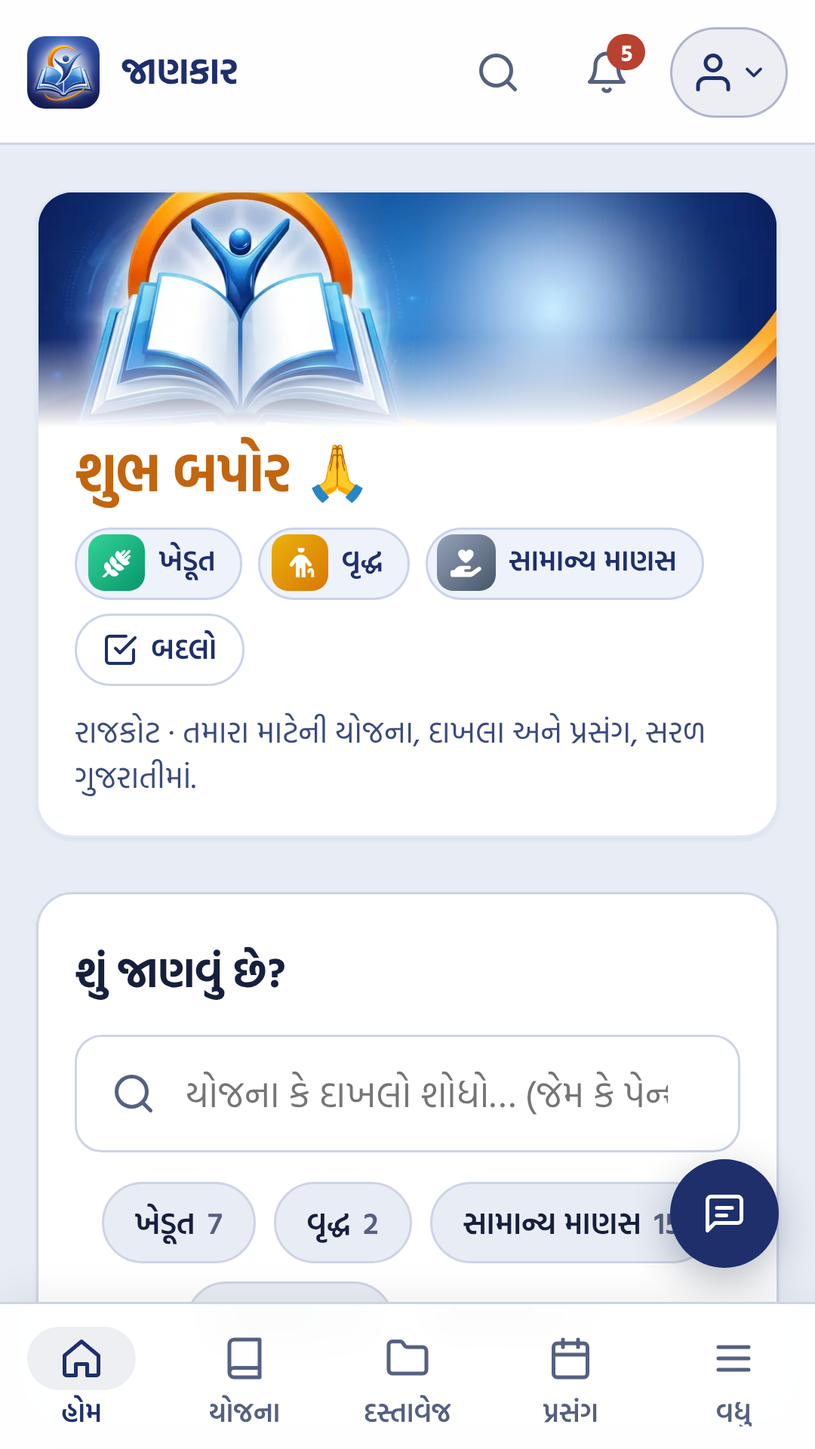
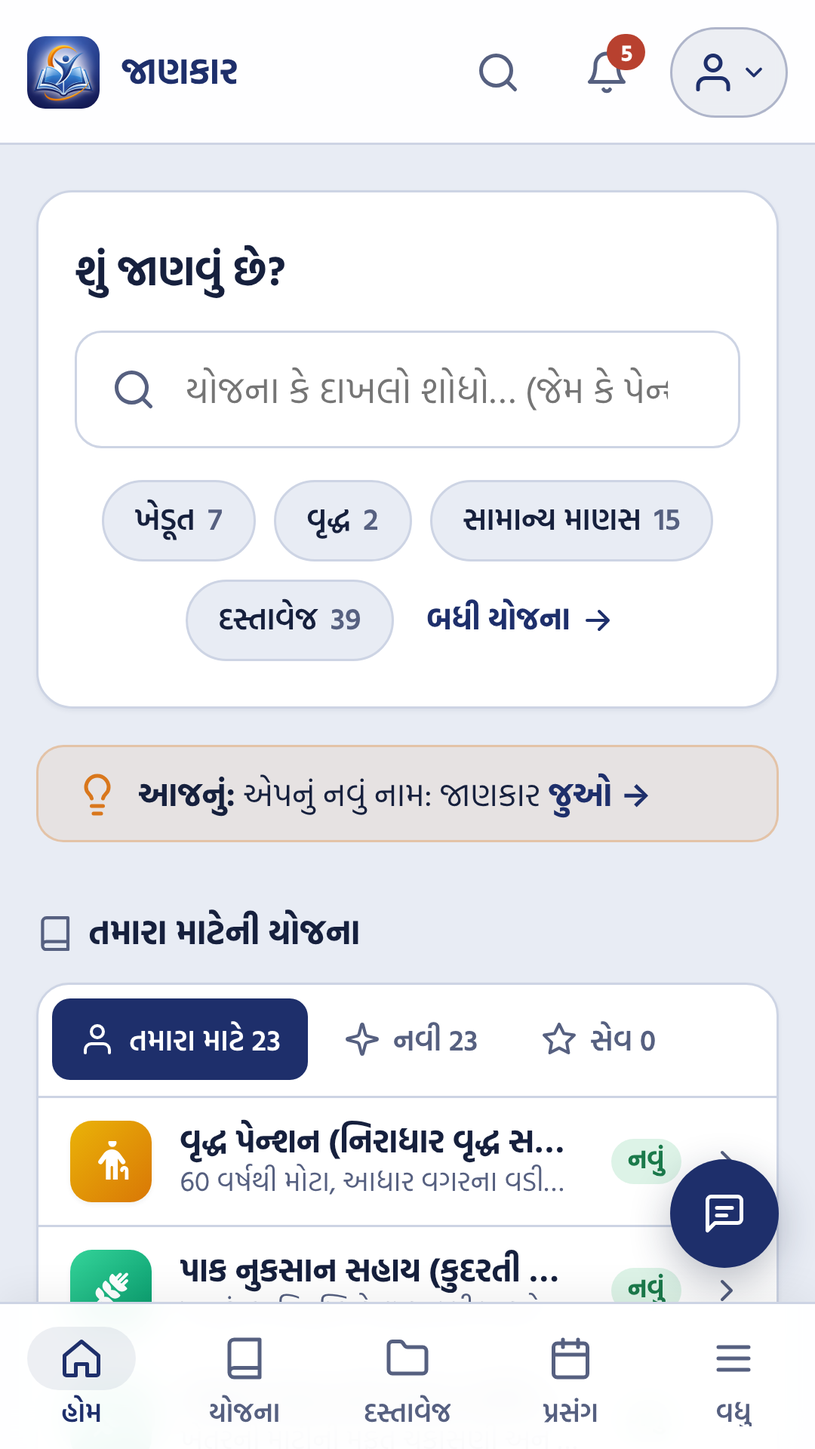
Remove home welcome card and extra notices; About page keeps only Play Store essentials (v0.7.1)
Claude-Session: https://claude.ai/code/session_01DUfmrE6hES2hiiSsinEE3a

Changed region(s): [[0.0306, 0.125, 0.9778, 0.5938], [0.0306, 0.625, 0.8556, 0.9062], [0.8861, 0.75, 0.9167, 0.7812]]

diff --git a/js/app.js b/js/app.js
@@ -163,11 +163,6 @@ function itemList(items, empty) {
   return `<ul class="list">${items.map((s) => itemCard(s)).join('')}</ul>`;
 }
 
-function draftNote(items) {
-  if (!items.some((s) => !s.verified)) return '';
-  return `<p class="note note-warn mt">${icon('alert')}<span>આ માહિતીની સત્તાવાર સાઇટ પરથી ચકાસણી હજુ બાકી છે. અરજી હંમેશાં સત્તાવાર સાઇટ પર જ કરો.</span></p>`;
-}
-
 // પેજનો ફૂટર હવે ખોખામાં એક જ વાર (KruPa #174: એક પાતળી લીટી). જૂની views હજુ footer() બોલાવે છે.
 function footer() {
   return '';
@@ -176,7 +171,6 @@ function footer() {
 function renderFooter() {
   const links = [
     ['#/about', 'એપ વિશે'],
-    ['#/guide', 'કેવી રીતે વાપરવી'],
     ['privacy.html', 'પ્રાઇવસી'],
     ['terms.html', 'નિયમો'],
     ['#/contact', 'સંપર્ક'],
@@ -363,13 +357,6 @@ function homeResults() {
     ${itemList(hits, 'કંઈ મળ્યું નહીં. બીજો શબ્દ લખી જુઓ, જેમ કે "પેન્શન" કે "aavak".')}`;
 }
 
-function greeting() {
-  const h = new Date().getHours();
-  if (h < 12) return 'શુભ સવાર';
-  if (h < 17) return 'શુભ બપોર';
-  return 'શુભ સાંજ';
-}
-
 // એક હાર: tile + નામ + નાની લીટી + › (KruPa ના હોમની યાદી જેવું)
 function rowItem(s) {
   let tag = '';
@@ -463,20 +450,8 @@ function viewHome() {
   }
   const latest = [...state.updates].sort((a, b) => (a.date < b.date ? 1 : a.date > b.date ? -1 : 0))[0];
   const count = (c) => visible(state.schemes).filter((s) => s.categories.includes(c)).length;
-  const place = [p.age ? `${esc(p.age)} વર્ષ` : '', p.district ? esc(p.district) : ''].filter(Boolean).join(' · ');
   return `
     ${state.installPrompt ? `<button class="note note-info btn-block" style="border:0;cursor:pointer;text-align:left;margin-bottom:1rem" data-action="install">${icon('plus')}<span><strong>એપ ફોનમાં ઇન્સ્ટોલ કરો</strong>: હોમ સ્ક્રીન પરથી સીધી ખૂલશે.</span></button>` : ''}
-    <section class="wcard">
-      <div class="wcard-text">
-        <h1><span class="g">${greeting()}</span> 🙏</h1>
-        <div class="wbadges">
-          ${p.categories.map((c) => `<a class="wb" href="#/all?c=${c}">${catTile(c, 'sm')}${esc(CATEGORY_BY_ID[c].label)}</a>`).join('')}
-          <a class="wb edit" href="#/profile">${icon('fill', 'ic-sm')}બદલો</a>
-        </div>
-        <p class="wcard-line">${place ? `${place} · તમારા માટેની યોજના, દાખલા અને પ્રસંગ, સરળ ગુજરાતીમાં.` : `<a href="#/profile">ઉંમર અને જિલ્લો ઉમેરો →</a> એટલે વધુ સાચી યોજના દેખાશે.`}</p>
-      </div>
-      <div class="wcard-art" aria-hidden="true"></div>
-    </section>
     ${reminderNote()}
     <section class="scard">
       <div class="scard-in">
@@ -500,8 +475,7 @@ function viewHome() {
       ${homeMineBox(p)}
       ${homeEventsBox(p)}
       ${homeDocsBox()}
-    </div>
-    ${draftNote(visible(state.schemes).filter((s) => matches(s, p)))}`;
+    </div>`;
 }
 
 // ---------- યાદી: યોજના અને દસ્તાવેજ ----------
@@ -569,8 +543,7 @@ function listPage(scope, title, sub, ic, placeholder, chips, label) {
       ${filterSelect(scope, label, chips, counts)}
       <span class="fcount" id="${scope}-count">${countLabel(scope)}</span>
     </div>
-    <div id="${scope}-list">${listBody(scope)}</div>
-    ${draftNote(scope === 'docs' ? state.docs : state.schemes)}`;
+    <div id="${scope}-list">${listBody(scope)}</div>`;
 }
 
 function viewAll(params) {
@@ -643,14 +616,11 @@ function viewEvent(id) {
       <div><h1>${esc(e.title)}</h1><p class="lead">${esc(e.summary)}</p></div>
     </div>
     <p class="progress mt" id="event-progress">${eventProgress(e, ready)}</p>
-    <div class="parts" style="margin-top:1rem">
+    <div class="parts one" style="margin-top:1rem">
       <div class="parts-main">
         ${docs.length ? `<section class="part"><h2><span class="sq">${icon('forms')}</span>કરવાનાં કામ / દસ્તાવેજ</h2><ul class="ev-list">${docs.map(row).join('')}</ul></section>` : ''}
         ${helps.length ? `<section class="part"><h2><span class="sq">${icon('gift')}</span>મળી શકે એવી સહાય</h2><ul class="ev-list">${helps.map(row).join('')}</ul></section>` : ''}
       </div>
-      <aside class="parts-side">
-        <div class="note note-info">${icon('info')}<span>કામ પર ટેપ કરો એટલે પુરાવા અને પગલાં દેખાશે. થઈ જાય એટલે ☐ પર ✓ કરો — આ ફોનમાં યાદ રહેશે.</span></div>
-      </aside>
     </div>
     ${footer()}`;
 }
@@ -748,7 +718,6 @@ function viewItem(id) {
       <button class="btn" data-action="save" data-id="${esc(s.id)}" aria-pressed="${saved}">${icon('star', saved ? 'ic filled' : 'ic')}<span>${saved ? 'સેવ થયેલ' : 'સેવ કરો'}</span></button>
       <a class="btn btn-ok" href="${wa}" target="_blank" rel="noopener">${icon('share')}વોટ્સએપ પર મોકલો</a>
     </div>
-    ${!s.verified ? `<p class="note note-warn mt">${icon('alert')}<span>આ માહિતીની ચકાસણી હજુ બાકી છે${/⚠/.test(JSON.stringify(s)) ? ' — ⚠ વાળી વાત ખાસ ચકાસો' : ''}. અરજી પહેલાં સત્તાવાર સાઇટ કે કચેરીમાં ખાતરી કરો.</span></p>` : ''}
     <div class="facts-main">
       <div class="fact">${'<span class="sq">' + icon('users') + '</span>'}<div><div class="k">${k.who}</div><div class="v">${s.eligibility.map(esc).join('<br>')}</div></div></div>
       <div class="fact good"><span class="sq">${icon('gift')}</span><div><div class="k">${k.benefit}</div><div class="v">${esc(s.benefit)}</div></div></div>
@@ -763,22 +732,14 @@ function viewItem(id) {
         ${s.after && s.after.length ? part('અરજી પછી', 'hourglass', dots(s.after)) : ''}
       </div>
       <aside class="parts-side">
-        <div class="card side-box">
-          <h3>${icon('help')}ફોર્મ ભરવામાં મદદ</h3>
-          <p class="small muted">નજીકના <strong>KruPa Digital Hub</strong> ઓપરેટર કે CSC સેન્ટરની મદદ લો.</p>
-        </div>
         ${reportLink(s) ? `<div class="card side-box">
           <h3>${icon('alert')}માહિતીમાં ભૂલ છે?</h3>
           <p class="small muted">ફી, તારીખ કે નિયમ બદલાયા હોય તો જણાવો, અમે ચકાસીને સુધારીશું.</p>
           <a class="btn" href="${reportLink(s)}" target="_blank" rel="noopener">${icon('message')}ભૂલ જણાવો</a>
         </div>` : ''}
         <div class="card side-box">
-          <h3>${icon('shield')}ધ્યાન રાખો</h3>
-          <p class="small muted">અમે ક્યારેય પૈસા, OTP કે આધાર નંબર માંગતા નથી. અરજી હંમેશાં સત્તાવાર સાઇટ પર જ કરો.</p>
-        </div>
-        <div class="card side-box">
           <h3>${icon('book')}સ્રોત</h3>
-          <div class="sources">${sources}<span>છેલ્લે અપડેટ: ${esc(formatDate(s.updatedOn))}</span></div>
+          <div class="sources">${sources}<span>છેલ્લે અપડેટ: ${esc(formatDate(s.updatedOn))}</span>${s.verified ? '' : '<span>ચકાસણી બાકી: અરજી પહેલાં સત્તાવાર સાઇટ પર ખાતરી કરો.</span>'}</div>
         </div>
       </aside>
     </div>
@@ -836,7 +797,6 @@ function viewHelp() {
         )
         .join('') || '<div class="empty">નંબર લોડ ન થયા.</div>'
     }</div>
-    <p class="note note-warn mt">${icon('shield')}<span>કોઈ સરકારી અધિકારી ફોન પર OTP, PIN કે પૈસા માંગતા નથી. ફ્રોડ થાય તો તરત 1930 પર ફોન કરો.</span></p>
     ${footer()}`;
 }
 
@@ -865,7 +825,6 @@ function viewProfile() {
         <label class="field">વ્યવસાય<select name="occupation"><option value="">— પસંદ કરો —</option>${opt(OCCUPATIONS, p.occupation)}</select></label>
         <label class="field">કુટુંબની વાર્ષિક આવક<select name="income"><option value="">— પસંદ કરો —</option>${opt(INCOME, p.income)}</select></label>
       </div>
-      <p class="note note-ok">${icon('lock')}<span>અમે આધાર નંબર, બેંક વિગત કે ફોન નંબર ક્યારેય નથી માંગતા.</span></p>
       <button class="btn btn-primary btn-block" type="submit">${icon('published')}સેવ કરો</button>
       ${state.profile ? `<button class="btn btn-ghost btn-block" type="button" data-action="reset">${icon('trash')}મારી બધી માહિતી ફોનમાંથી કાઢી નાખો</button>` : ''}
     </form>
@@ -876,22 +835,13 @@ function viewAbout() {
   return `
     ${pageHead(`${esc(APP.name)} વિશે`, '', 'info', '#/')}
     <div class="stack">
-      <div class="card"><p>ગામના દરેક માણસને તેના માટે કઈ યોજના, સહાય, દાખલા અને માહિતી છે તે સરળ ગુજરાતીમાં, બોલીને અને સામેથી જણાવતી એપ.</p></div>
+      <div class="card"><p>યોજના, સહાય અને દાખલાની માહિતી સરળ ગુજરાતીમાં આપતી એપ. પ્રકાશક: KruPa Digital Hub.</p></div>
       <div class="note note-warn">${icon('alert')}<div>
         <ul style="padding-left:1.1rem;margin:0">
-          <li>આ <strong>ખાનગી માહિતી એપ</strong> છે — કોઈ સરકારી વિભાગની સત્તાવાર એપ નથી.</li>
-          <li>દરેક કાર્ડ પર સત્તાવાર સ્રોતની લિંક છે. અરજી પહેલાં સત્તાવાર સાઇટ કે કચેરીમાં ખાતરી કરો.</li>
-          <li><strong>અમે ક્યારેય પૈસા, OTP કે આધાર નંબર માંગતા નથી.</strong> કોઈ આ એપના નામે માંગે તો તે ફ્રોડ છે — 1930 પર ફોન કરો.</li>
+          <li>આ <strong>ખાનગી માહિતી એપ</strong> છે. કોઈ સરકારી વિભાગની એપ નથી અને સરકાર સાથે જોડાયેલી નથી.</li>
+          <li>માહિતી સરકારી વેબસાઇટ અને સરકારી ઠરાવ પરથી લીધી છે. દરેક કાર્ડ પર "સ્રોત" માં મૂળ લિંક છે. અરજી સત્તાવાર સાઇટ પર જ કરો.</li>
         </ul></div></div>
-      <div class="card"><h2 class="section-title" style="margin-top:0">${icon('users')}KruPa Digital Hub</h2>
-        <p>${esc(APP.name)} એ KruPa Digital Hub ની એપ છે. યોજના ગાઈડ, દસ્તાવેજ ગાઈડ અને પ્રસંગની માહિતી KruPa Digital Hub ની ગાઈડ પરથી લીધી છે. ફોર્મ ભરવામાં મદદ માટે નજીકના KruPa ઓપરેટર કે CSC સેન્ટરનો સંપર્ક કરો.</p></div>
-      <div class="card"><h2 class="section-title" style="margin-top:0">${icon('lock')}તમારી માહિતી</h2>
-        <p>લોગિન નથી. પ્રોફાઇલ, સેવ કરેલું અને ✓ ચેકલિસ્ટ ફક્ત આ ફોનમાં રહે છે; અમારા સર્વર પર જતું નથી. <a href="privacy.html">પ્રાઇવસી પોલિસી</a></p></div>
-      <div class="card"><h2 class="section-title" style="margin-top:0">${icon('book')}માહિતી ક્યાંથી આવે છે</h2>
-        <p>દરેક કાર્ડ સરકારી વેબસાઇટ, સરકારી ઠરાવ અને KruPa Digital Hub ની ગાઈડ પરથી સરળ ગુજરાતીમાં લખાય છે. કાર્ડની નીચે "સ્રોત" માં મૂળ લિંક અને છેલ્લે અપડેટની તારીખ છે. સત્તાવાર સાઇટ પરથી ચકાસાય નહીં ત્યાં સુધી કાર્ડ પર "ચકાસણી બાકી" લખેલું રહે છે.</p>
-        <p class="mt muted">હાલમાં: ${state.schemes.length} યોજના, ${state.docs.length} દસ્તાવેજ, ${state.events.length} પ્રસંગ · ${allItems().filter((x) => x.verified).length} ચકાસેલાં</p></div>
       <div class="menu-list card">
-        <a href="#/guide">${icon('help')}એપ કેવી રીતે વાપરવી</a>
         <a href="#/contact">${icon('message')}સંપર્ક અને સૂચન</a>
         <a href="privacy.html">${icon('lock')}પ્રાઇવસી પોલિસી</a>
         <a href="terms.html">${icon('forms')}નિયમો અને શરતો</a>
@@ -922,52 +872,8 @@ function viewContact() {
     c.email && `<a class="help-row" href="mailto:${esc(c.email)}">${lineTile('message', 'blue')}<div><div class="num">ઈમેલ</div><div class="t">${esc(c.email)}</div></div>${icon('chev', 'ic chev')}</a>`,
   ].filter(Boolean);
   return `
-    ${pageHead('સંપર્ક અને સૂચન', 'ભૂલ દેખાય, નવી યોજના ખબર પડે કે કંઈ સમજાય નહીં તો જણાવો.', 'message', '#/')}
+    ${pageHead('સંપર્ક અને સૂચન', 'ભૂલ દેખાય કે સૂચન હોય તો જણાવો.', 'message', '#/')}
     ${rows.length ? `<div class="help-list">${rows.join('')}</div>` : `<div class="empty">સંપર્કની વિગત ટૂંક સમયમાં ઉમેરાશે.</div>`}
-    <div class="card mt">
-      <h2 class="h2">${icon('help')}ફોર્મ ભરવામાં મદદ</h2>
-      <p class="mt">આ એપ ફક્ત માહિતી આપે છે, અરજી નથી કરતી. ફોર્મ ભરવા માટે નજીકના <strong>KruPa Digital Hub</strong> ઓપરેટર, CSC સેન્ટર કે ગ્રામ પંચાયતના VCE ની મદદ લો.</p>
-    </div>
-    <p class="note note-warn mt">${icon('shield')}<span>અમે ક્યારેય પૈસા, OTP કે આધાર નંબર માંગતા નથી. કોઈ માંગે તો 1930 પર ફોન કરો.</span></p>
-    ${footer()}`;
-}
-
-// ---------- એપ કેવી રીતે વાપરવી (VCE / જાણકાર બીજાને શીખવી શકે) ----------
-
-const GUIDE = [
-  ['home', 'મારા માટે', 'પ્રોફાઇલ પ્રમાણે તમને લાગુ પડતી યોજના અહીં દેખાય છે. "નવું" લખેલું હોય તે છેલ્લી મુલાકાત પછી ઉમેરાયેલું છે.'],
-  ['search', 'શોધો', 'ઉપરના ખાનામાં "પેન્શન", "આવક", "લોન" જેવો શબ્દ લખો.'],
-  ['book', 'યોજના ખોલો', 'કાર્ડ પર ટેપ કરો: કોને મળે, લાભ, ફી, કેટલા દિવસ, પુરાવા અને અરજીનાં પગલાં દેખાશે.'],
-  ['list', 'પુરાવાનું લિસ્ટ', 'જે પુરાવો તૈયાર હોય તેના પર ટેપ કરો, ✓ થઈ જશે. આ ફોનમાં યાદ રહે છે.'],
-  ['speaker', 'સાંભળો', '"સાંભળો" દબાવો એટલે એપ આખી માહિતી ગુજરાતીમાં વાંચી સંભળાવશે.'],
-  ['share', 'વોટ્સએપ પર મોકલો', 'કોઈને કામ આવે એવી યોજના એક બટનથી વોટ્સએપમાં મોકલો.'],
-  ['star', 'સેવ કરો', 'જરૂરી યોજના સેવ કરો, પછી "સેવ" ટેબમાં મળશે.'],
-  ['calendar', 'જીવનના પ્રસંગ', 'બાળકનો જન્મ, લગ્ન, ઘડપણ જેવા પ્રસંગે શું કઢાવવું અને કઈ સહાય મળે તેનું લિસ્ટ.'],
-  ['user', 'પ્રોફાઇલ અને અક્ષર', 'ઉપર જમણી બાજુના મેનુમાંથી પ્રોફાઇલ બદલો, અક્ષર મોટા કરો કે રાત્રે ડાર્ક દેખાવ કરો.'],
-  ['external', 'અરજી', 'અરજી હંમેશાં "સત્તાવાર સાઇટ પર અરજી" બટનથી સરકારી સાઇટ પર જ કરો.'],
-];
-
-function viewGuide() {
-  return `
-    ${pageHead('એપ કેવી રીતે વાપરવી', '10 નાની વાત. પહેલી વાર કોઈને એપ બતાવો ત્યારે આ પેજ સાથે જુઓ.', 'help', '#/')}
-    <ol class="guide-list">${GUIDE.map(([ic, t, d], i) => `<li><span class="num">${i + 1}</span><div><b>${icon(ic, 'ic-sm')}${t}</b><p>${d}</p></div></li>`).join('')}</ol>
-    <div class="card mt stack">
-      <h2 class="h2">${icon('phone')}ફોનમાં ઇન્સ્ટોલ કરવી</h2>
-      <ol class="plain-steps">
-        <li>Chrome માં એપની લિંક ખોલો.</li>
-        <li>ઉપર જમણી બાજુ ⋮ (ત્રણ ટપકાં) દબાવો.</li>
-        <li>"Add to Home screen" કે "Install app" દબાવો.</li>
-        <li>હોમ સ્ક્રીન પર એપનું આઇકન આવી જશે. નેટ વગર પણ ખૂલશે.</li>
-      </ol>
-    </div>
-    <div class="card mt stack">
-      <h2 class="h2">${icon('speaker')}અવાજ ન આવે તો</h2>
-      <ol class="plain-steps">
-        <li>ફોનના Settings ખોલો.</li>
-        <li>"Text-to-speech" શોધો.</li>
-        <li>Google ના Speech Services માં ગુજરાતી ભાષા ડાઉનલોડ કરો.</li>
-      </ol>
-    </div>
     ${footer()}`;
 }
 
@@ -982,7 +888,6 @@ const NAV = [
   { route: 'today', href: '#/today', ic: 'bell', label: 'આજનું' },
   { route: 'help', href: '#/help', ic: 'phone', label: 'જરૂરી ફોન નંબર' },
   { group: 'મદદ' },
-  { route: 'guide', href: '#/guide', ic: 'help', label: 'કેવી રીતે વાપરવી' },
   { route: 'contact', href: '#/contact', ic: 'message', label: 'સંપર્ક અને સૂચન' },
   { route: 'about', href: '#/about', ic: 'info', label: 'એપ વિશે' },
 ];
@@ -1329,7 +1234,7 @@ function currentRoute() {
   return { name: parts[0] || 'home', arg: decodeURIComponent(parts[1] || ''), params: new URLSearchParams(query) };
 }
 
-const VIEW_NAMES = ['home', 'all', 'docs', 'events', 'event', 'scheme', 'saved', 'today', 'help', 'profile', 'about', 'guide', 'contact'];
+const VIEW_NAMES = ['home', 'all', 'docs', 'events', 'event', 'scheme', 'saved', 'today', 'help', 'profile', 'about', 'contact'];
 const views_known = (n) => VIEW_NAMES.includes(n);
 
 function currentTab() {
@@ -1358,7 +1263,6 @@ function render() {
       help: viewHelp,
       profile: viewProfile,
       about: viewAbout,
-      guide: viewGuide,
       contact: viewContact,
     };
     html = (views[name] || viewHome)();

diff --git a/css/app.css b/css/app.css
@@ -420,43 +420,11 @@ body.bare .wrap { max-width: none; padding: 0; }
 .stack > * + * { margin-top: 1rem; }
 .mt { margin-top: 1rem; }
 
-/* ---------- હોમ (KruPa #220/#221: સ્વાગત કાર્ડ, શોધ કાર્ડ, ટીપ, ત્રણ ખાનાં) ---------- */
+/* ---------- હોમ (KruPa #220/#221: શોધ કાર્ડ, ટીપ, ત્રણ ખાનાં) ---------- */
 .greet { font-size: 1.5rem; font-weight: 700; line-height: 1.3; color: var(--greet); }
-.wcard {
-  position: relative; display: grid; grid-template-columns: 1fr; overflow: hidden;
-  border-radius: 1rem; border: 1px solid #dfe6f5; background: #fff; color: #1e2f6b; box-shadow: var(--shadow);
-}
-:root[data-theme="dark"] .wcard { background: #dfe6f4; }
-@media (prefers-color-scheme: dark) { :root:not([data-theme="light"]) .wcard { background: #dfe6f4; } }
-.wcard-text { display: flex; flex-direction: column; min-width: 0; padding: .25rem 1rem 1rem; }
-.wcard h1 { font-size: 1.5rem; font-weight: 700; line-height: 1.25; letter-spacing: -.01em; }
-.wcard h1 .g { color: #c2650f; }
-.wbadges { display: flex; flex-wrap: wrap; align-items: center; gap: .4rem; margin-top: .6rem; }
-.wb {
-  display: inline-flex; align-items: center; gap: .35rem; min-height: 2rem; padding: 0 .7rem 0 .3rem; border-radius: 999px;
-  border: 1px solid #c9d3ea; background: #eef2fb; color: #1e2f6b; font-size: .8rem; font-weight: 600; text-decoration: none;
-}
-.wb.dark { background: #1e2f6b; border-color: #1e2f6b; color: #fff; padding: 0 .75rem; }
-.wb.edit { padding: 0 .7rem; background: transparent; }
-.wb.edit:hover { border-color: #1e2f6b; }
-.wcard-line { margin-top: .6rem; font-size: .85rem; line-height: 1.5; color: #3b4a7d; }
-.wcard-art { position: relative; order: -1; height: 6.5rem; background: url(../icons/welcome-art.webp) 22% 50% / cover no-repeat #1e3f9c; }
-.wcard-art::after { content: ""; position: absolute; inset: auto 0 0 0; height: 2.5rem; background: linear-gradient(to top, #fff, transparent); }
-:root[data-theme="dark"] .wcard-art::after { background: linear-gradient(to top, #dfe6f4, transparent); }
-@media (prefers-color-scheme: dark) { :root:not([data-theme="light"]) .wcard-art::after { background: linear-gradient(to top, #dfe6f4, transparent); } }
-@media (min-width: 640px) {
-  .wcard { grid-template-columns: minmax(0, 1fr) minmax(0, 44%); }
-  .wcard-text { justify-content: center; padding: 1.75rem 2rem; }
-  .wcard h1 { font-size: 2rem; }
-  .wbadges { margin-top: 1rem; gap: .5rem; }
-  .wb { font-size: .875rem; }
-  .wcard-art { order: 0; height: auto; min-height: 11rem; }
-  .wcard-art::after { inset: 0 auto 0 0; width: 4rem; height: auto; background: linear-gradient(to right, #fff, transparent); }
-  :root[data-theme="dark"] .wcard-art::after { background: linear-gradient(to right, #dfe6f4, transparent); }
-}
-@media (min-width: 640px) and (prefers-color-scheme: dark) { :root:not([data-theme="light"]) .wcard-art::after { background: linear-gradient(to right, #dfe6f4, transparent); } }
 
 .scard { margin-top: 1.5rem; padding: 1.25rem 1rem; border-radius: 1rem; border: 1px solid var(--line); background: var(--surface); box-shadow: var(--shadow); }
+.scard:first-child { margin-top: 0; }
 .scard-in { max-width: 42rem; margin: 0 auto; }
 .scard h2 { font-size: 1.15rem; font-weight: 700; margin-bottom: .75rem; }
 .search-big { position: relative; display: block; }
@@ -485,7 +453,6 @@ body.bare .wrap { max-width: none; padding: 0; }
 .tip .ic { color: var(--kesari); margin-top: .1rem; }
 .tip b { color: var(--ink); }
 .tip .go { font-weight: 700; color: var(--primary); white-space: nowrap; }
-.wcard-line a { color: #1e2f6b; font-weight: 700; }
 .tip.warn { border-color: rgba(184, 65, 47, .35); background: var(--danger-soft); }
 .tip.warn .ic { color: var(--danger); }
 .tip:hover .go { text-decoration: underline; }
@@ -601,6 +568,8 @@ body.bare .wrap { max-width: none; padding: 0; }
 @media (min-width: 1280px) { .parts { grid-template-columns: minmax(0, 1fr) 24rem; } }
 .parts-main { display: grid; gap: 2rem; min-width: 0; }
 .parts-side { display: grid; gap: 1rem; min-width: 0; }
+.parts.one { grid-template-columns: minmax(0, 1fr); }
+@media (min-width: 1024px) { .parts.one .parts-main { grid-template-columns: repeat(2, minmax(0, 1fr)); align-items: start; } }
 @media (min-width: 1024px) { .parts-side { position: sticky; top: 4.5rem; } }
 .part h2 { display: flex; align-items: center; gap: .6rem; font-size: 1.1rem; font-weight: 800; }
 .part h2 .sq { display: grid; place-items: center; width: 2rem; height: 2rem; border-radius: .5rem; background: var(--primary-soft); color: var(--primary); flex: none; }
@@ -807,12 +776,6 @@ legend { font-weight: 700; margin-bottom: .6rem; padding: 0; }
 .center { text-align: center; }
 
 /* ---------- કેવી રીતે વાપરવી ---------- */
-.guide-list { list-style: none; padding: 0; margin: 0; display: grid; gap: .6rem; }
-@media (min-width: 1024px) { .guide-list { grid-template-columns: repeat(2, minmax(0, 1fr)); } }
-.guide-list li { display: flex; gap: .75rem; padding: .85rem 1rem; border-radius: 1rem; border: 1px solid var(--line); background: var(--surface); }
-.guide-list .num { display: grid; place-items: center; width: 2.25rem; height: 2.25rem; flex: none; border-radius: 999px; background: var(--primary); color: var(--on-primary); font-weight: 800; }
-.guide-list b { display: flex; align-items: center; gap: .4rem; color: var(--primary); }
-.guide-list p { margin: .2rem 0 0; color: var(--muted); line-height: 1.5; }
 .plain-steps { margin: 0; padding-left: 1.3rem; display: grid; gap: .35rem; line-height: 1.5; }
 .menu-list.card { padding: .5rem; }
 

diff --git a/js/config.js b/js/config.js
@@ -2,7 +2,7 @@
 export const APP = {
   name: 'જાણકાર',
   // દરેક નવા પ્રકાશન વખતે વધારવું; એપમાં નીચે દેખાય છે, એટલે ફોનમાં નવું વર્ઝન આવ્યું કે નહીં તે ખબર પડે.
-  version: '0.7.0',
+  version: '0.7.1',
   // એપ શું છે તેની એક સાદી લીટી (સ્વાગત પેજ અને વોટ્સએપથી એપ મોકલો ત્યારે). ભરતી વિભાગ બને ત્યારે "ભરતી" ઉમેરવું.
   about: 'યોજના, સહાય અને દાખલાની માહિતી, ગુજરાતીમાં.',
   // ઓપરેટર માટેની KruPa એપ (મેનુમાં "ઓપરેટર માટે")

diff --git a/sw.js b/sw.js
@@ -1,6 +1,6 @@
 // ઑફલાઇન: એપ ફોનમાં સેવ રહે, અને છેલ્લી ડાઉનલોડ થયેલી માહિતી નેટ વગર પણ દેખાય.
 // કોડ બદલો ત્યારે VERSION વધારવું, એટલે યુઝર્સના ફોનમાં નવું વર્ઝન આવે.
-const VERSION = 'v8';
+const VERSION = 'v9';
 const SHELL = `shell-${VERSION}`;
 const DATA = 'data';
 
@@ -27,7 +27,6 @@ const SHELL_FILES = [
   'icons/icon-192.png',
   'icons/icon-512.png',
   'icons/icon-maskable-512.png',
-  'icons/welcome-art.webp',
 ];
 
 self.addEventListener('install', (event) => {

diff --git a/PROGRESS.md b/PROGRESS.md
@@ -1,5 +1,12 @@
 # જાણકાર — કામ ક્યાં પહોંચ્યું (નવું ઉપર)
 
+## 16/11/26 — v0.7.1: હોમ પરથી સ્વાગત કાર્ડ કાઢ્યું, બિનજરૂરી સૂચના કાઢી
+- યુઝર: "સ્વાગત કાર્ડ કાઢી નાખો, વધારાનાં પેજમાં ફક્ત Play Store ને જોઈએ તે, બિનજરૂરી સૂચના નહીં."
+- હોમ: "શુભ સવાર" કાર્ડ અને ચિત્ર ગયું, સીધું "શું જાણવું છે?" થી શરૂ. યાદી અને હોમ પરની "ચકાસણી બાકી" પટ્ટી ગઈ.
+- "કેવી રીતે વાપરવી" પેજ કાઢ્યું. "એપ વિશે" માં ફક્ત Play Store ને જોઈએ તે: એપ શું છે, પ્રકાશક, "સરકારી એપ નથી" + માહિતીનો સ્રોત, સંપર્ક, પ્રાઇવસી, નિયમો, વર્ઝન.
+- કાઢેલી સૂચના: સંપર્ક (ફોર્મ મદદ, OTP), ફોન નંબર (1930), પ્રોફાઇલ (આધાર), પ્રસંગ (ટેપ કરો), યોજના પેજ ("ફોર્મ ભરવામાં મદદ", "ધ્યાન રાખો"). યોજના પેજ પર "ચકાસણી બાકી" હવે ફક્ત "સ્રોત" ખાનામાં એક નાની લીટી.
+- Play Store ના ફોટા ફરી બનાવ્યા. 360–1920 px Playwright PASS.
+
 ## 16/11/26 — v0.7.0: આખી એપ KruPa Digital Hub ના દેખાવમાં
 - યુઝર: "આખી એપ renovation, Digital Hub ના નિયમ અને style માં." Hub ને mock પર ચલાવી સરખાવીને બનાવ્યું.
 - ખોખું: કમ્પ્યુટર પર ઘેરું વાદળી બાજુનું મેનુ (લોગો હાર 65px, "મદદ" અને "ઓપરેટર માટે" ભાગ), ઉપર વચ્ચે આખી એપની શોધ (Ctrl K, યોજના + દસ્તાવેજ + પ્રસંગ), ઝૂમ − 100% +, 🔔 આજનું (નવાનો નંબર), 👤 ▾ મેનુ (પ્રોફાઇલ, ઝૂમ, દેખાવ slider લાઇટ → કાળો). કમ્પ્યુટર પર 100% = 14px (Hub જેવું).
@@ -32,9 +39,11 @@
 3. 12 ટેસ્ટર (Gmail) ભેગા કરવા: 14 દિવસનો ટેસ્ટ.
 
 ## આગળનું કામ (Claude, ક્રમ પ્રમાણે)
-1. **ભરતી વિભાગ + "આજનું" + હેલ્પલાઇન Digital Hub એડમિનમાંથી** (ગાઇડ જેવું: ત્યાં લખો, `/api/jankar` થી અહીં), પછી નામ અને મોટા ફોટામાં "ભરતી".
-2. **રોજ સવારનો ડ્રાફ્ટ:** OJAS, GPSC, GSSSB, iKhedut, Digital Gujarat જોઈ નવી ભરતી/યોજના Digital Hub એડમિનમાં ડ્રાફ્ટ તરીકે; યુઝર એક ક્લિકમાં ચાલુ કરે.
-3. **વિભાગ પ્રમાણે** (UMANG જેવી ગોઠવણ: ખેતી, મહેસૂલ, આરોગ્ય…): ફક્ત વિષયોની યાદી, લખાણ આપણું.
-4. **92 કાર્ડની ચકાસણી** સત્તાવાર સાઇટ પરથી, 5-5 ના ભાગમાં (`verified: true`).
-5. યોજનામાં છેલ્લી તારીખ (હવે Digital Hub એડિટરમાં) (`lastDate`) ભરવી, જેથી "સેવ" ની યાદ કામ કરે.
-6. Digital Hub / Doc Hub માં "ગ્રાહકને જાણકાર મોકલો" QR પોસ્ટર (ગાઇડનું વોટ્સએપ બટન હવે જાણકારની લિંક મોકલે છે).
+ધ્યેય: "Gujarat Job Alert (PC Job)" ની જેમ રોજ નવું, પણ આપણું લખાણ, ફક્ત સત્તાવાર લિંક, સરળ ગુજરાતી. તેમનું લખાણ કે ફોટા નકલ નહીં.
+1. **ભરતી વિભાગ** (Digital Hub એડમિનમાંથી, ગાઇડ જેવું `/api/jankar`): કાર્ડમાં સંસ્થા, જગ્યા, લાયકાત, ઉંમર, ફી, છેલ્લી તારીખ, સત્તાવાર જાહેરાત (PDF) અને અરજીની લિંક. પ્રકાર: નવી ભરતી / કોલ લેટર / આન્સર કી / પરિણામ. નીચે ટેબમાં "ભરતી", પછી નામ અને મોટા ફોટામાં "ભરતી".
+2. **"આજનું" + હેલ્પલાઇન Digital Hub એડમિનમાંથી:** રોજની 3–5 ટૂંકી પોસ્ટ (નવી ભરતી, યોજનાની તારીખ, ચેતવણી).
+3. **રોજ સવારનો ડ્રાફ્ટ:** OJAS, GPSC, GSSSB, GSEB, iKhedut, Digital Gujarat જોઈ નવી ભરતી/યોજના Digital Hub એડમિનમાં ડ્રાફ્ટ; યુઝર એક ક્લિકમાં ચાલુ કરે.
+4. **નોટિફિકેશન:** સેવ કરેલી ભરતી/યોજનાની છેલ્લી તારીખ અને નવી ભરતી (Play Store એપમાં).
+5. **વિભાગ પ્રમાણે** (ખેતી, મહેસૂલ, આરોગ્ય…): ફક્ત વિષયોની યાદી, લખાણ આપણું.
+6. **92 કાર્ડની ચકાસણી** સત્તાવાર સાઇટ પરથી, 5-5 ના ભાગમાં (`verified: true`), અને `lastDate` ભરવી.
+7. Digital Hub / Doc Hub માં "ગ્રાહકને જાણકાર મોકલો" QR પોસ્ટર.

diff --git a/README.md b/README.md
@@ -29,7 +29,7 @@
 | એપ WhatsApp ગ્રુપમાં મોકલો, ફોનમાં ઇન્સ્ટોલ કરો | મારા માટે |
 | સ્વાગત: 3 પગલાં (પરિચય, તમે કોણ છો, અક્ષરનું કદ અને અવાજ ચકાસો) | પહેલી વાર એપ ખોલો ત્યારે |
 | હોમ પર 6 મોટાં બટન | મારા માટે |
-| એપ કેવી રીતે વાપરવી, સંપર્ક અને સૂચન, નિયમો અને શરતો | મેનુ |
+| સંપર્ક અને સૂચન, પ્રાઇવસી, નિયમો અને શરતો | મેનુ |
 | "ભૂલ જણાવો" બટન (`js/config.js` માં સંપર્ક ભરો ત્યારે દેખાય) | યોજના કાર્ડ |
 | Play Store નું લખાણ, ફોટા અને અપલોડની રીત | `store/` |
 
